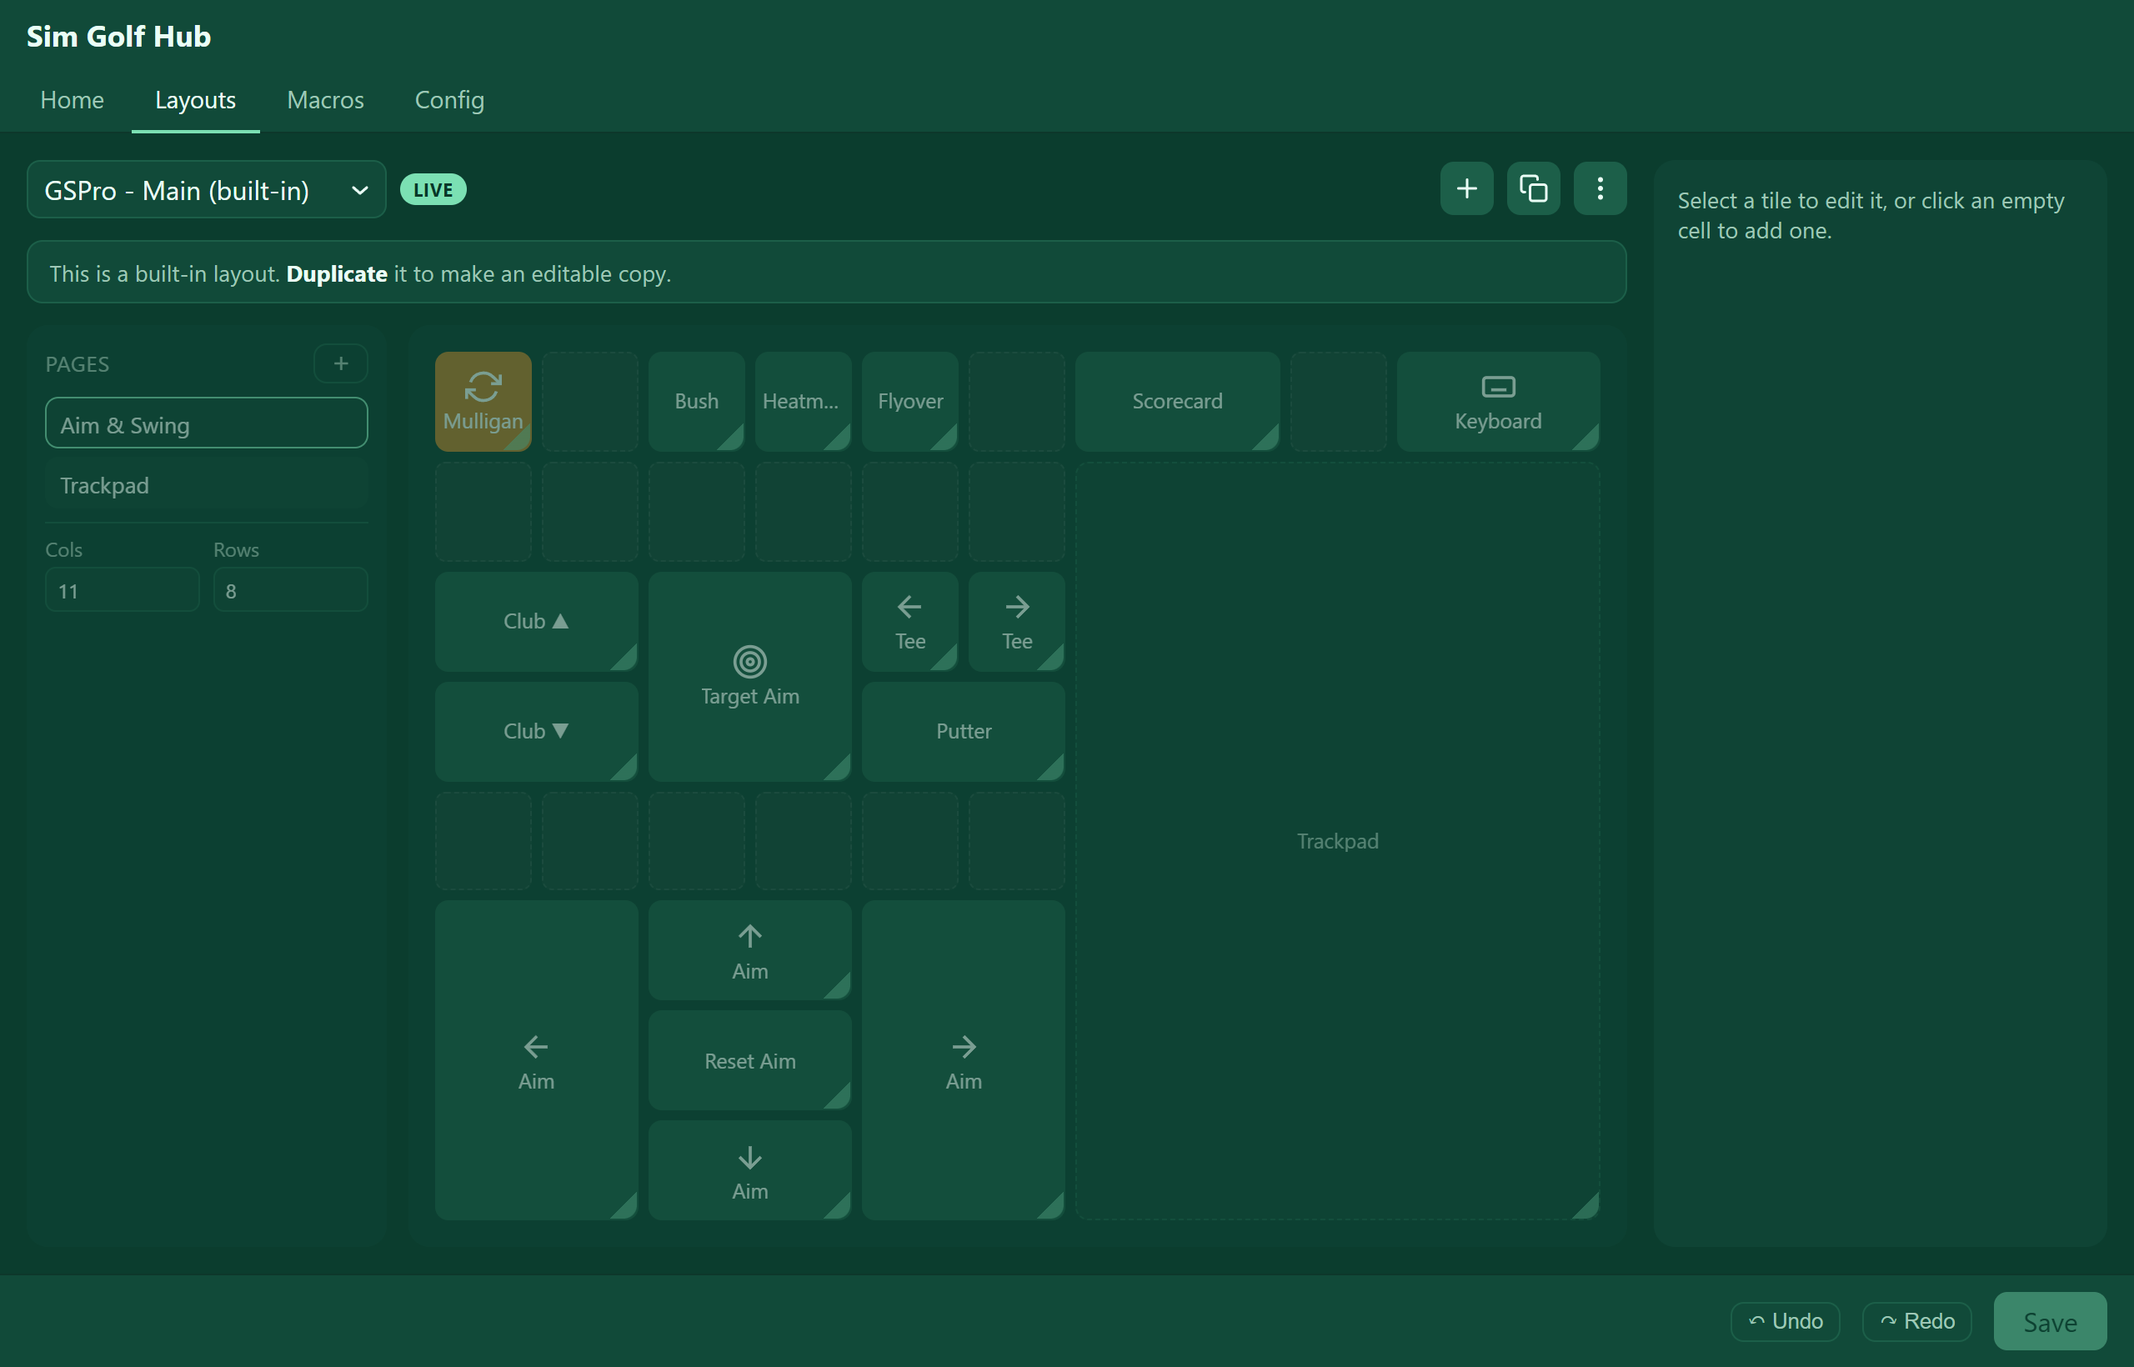
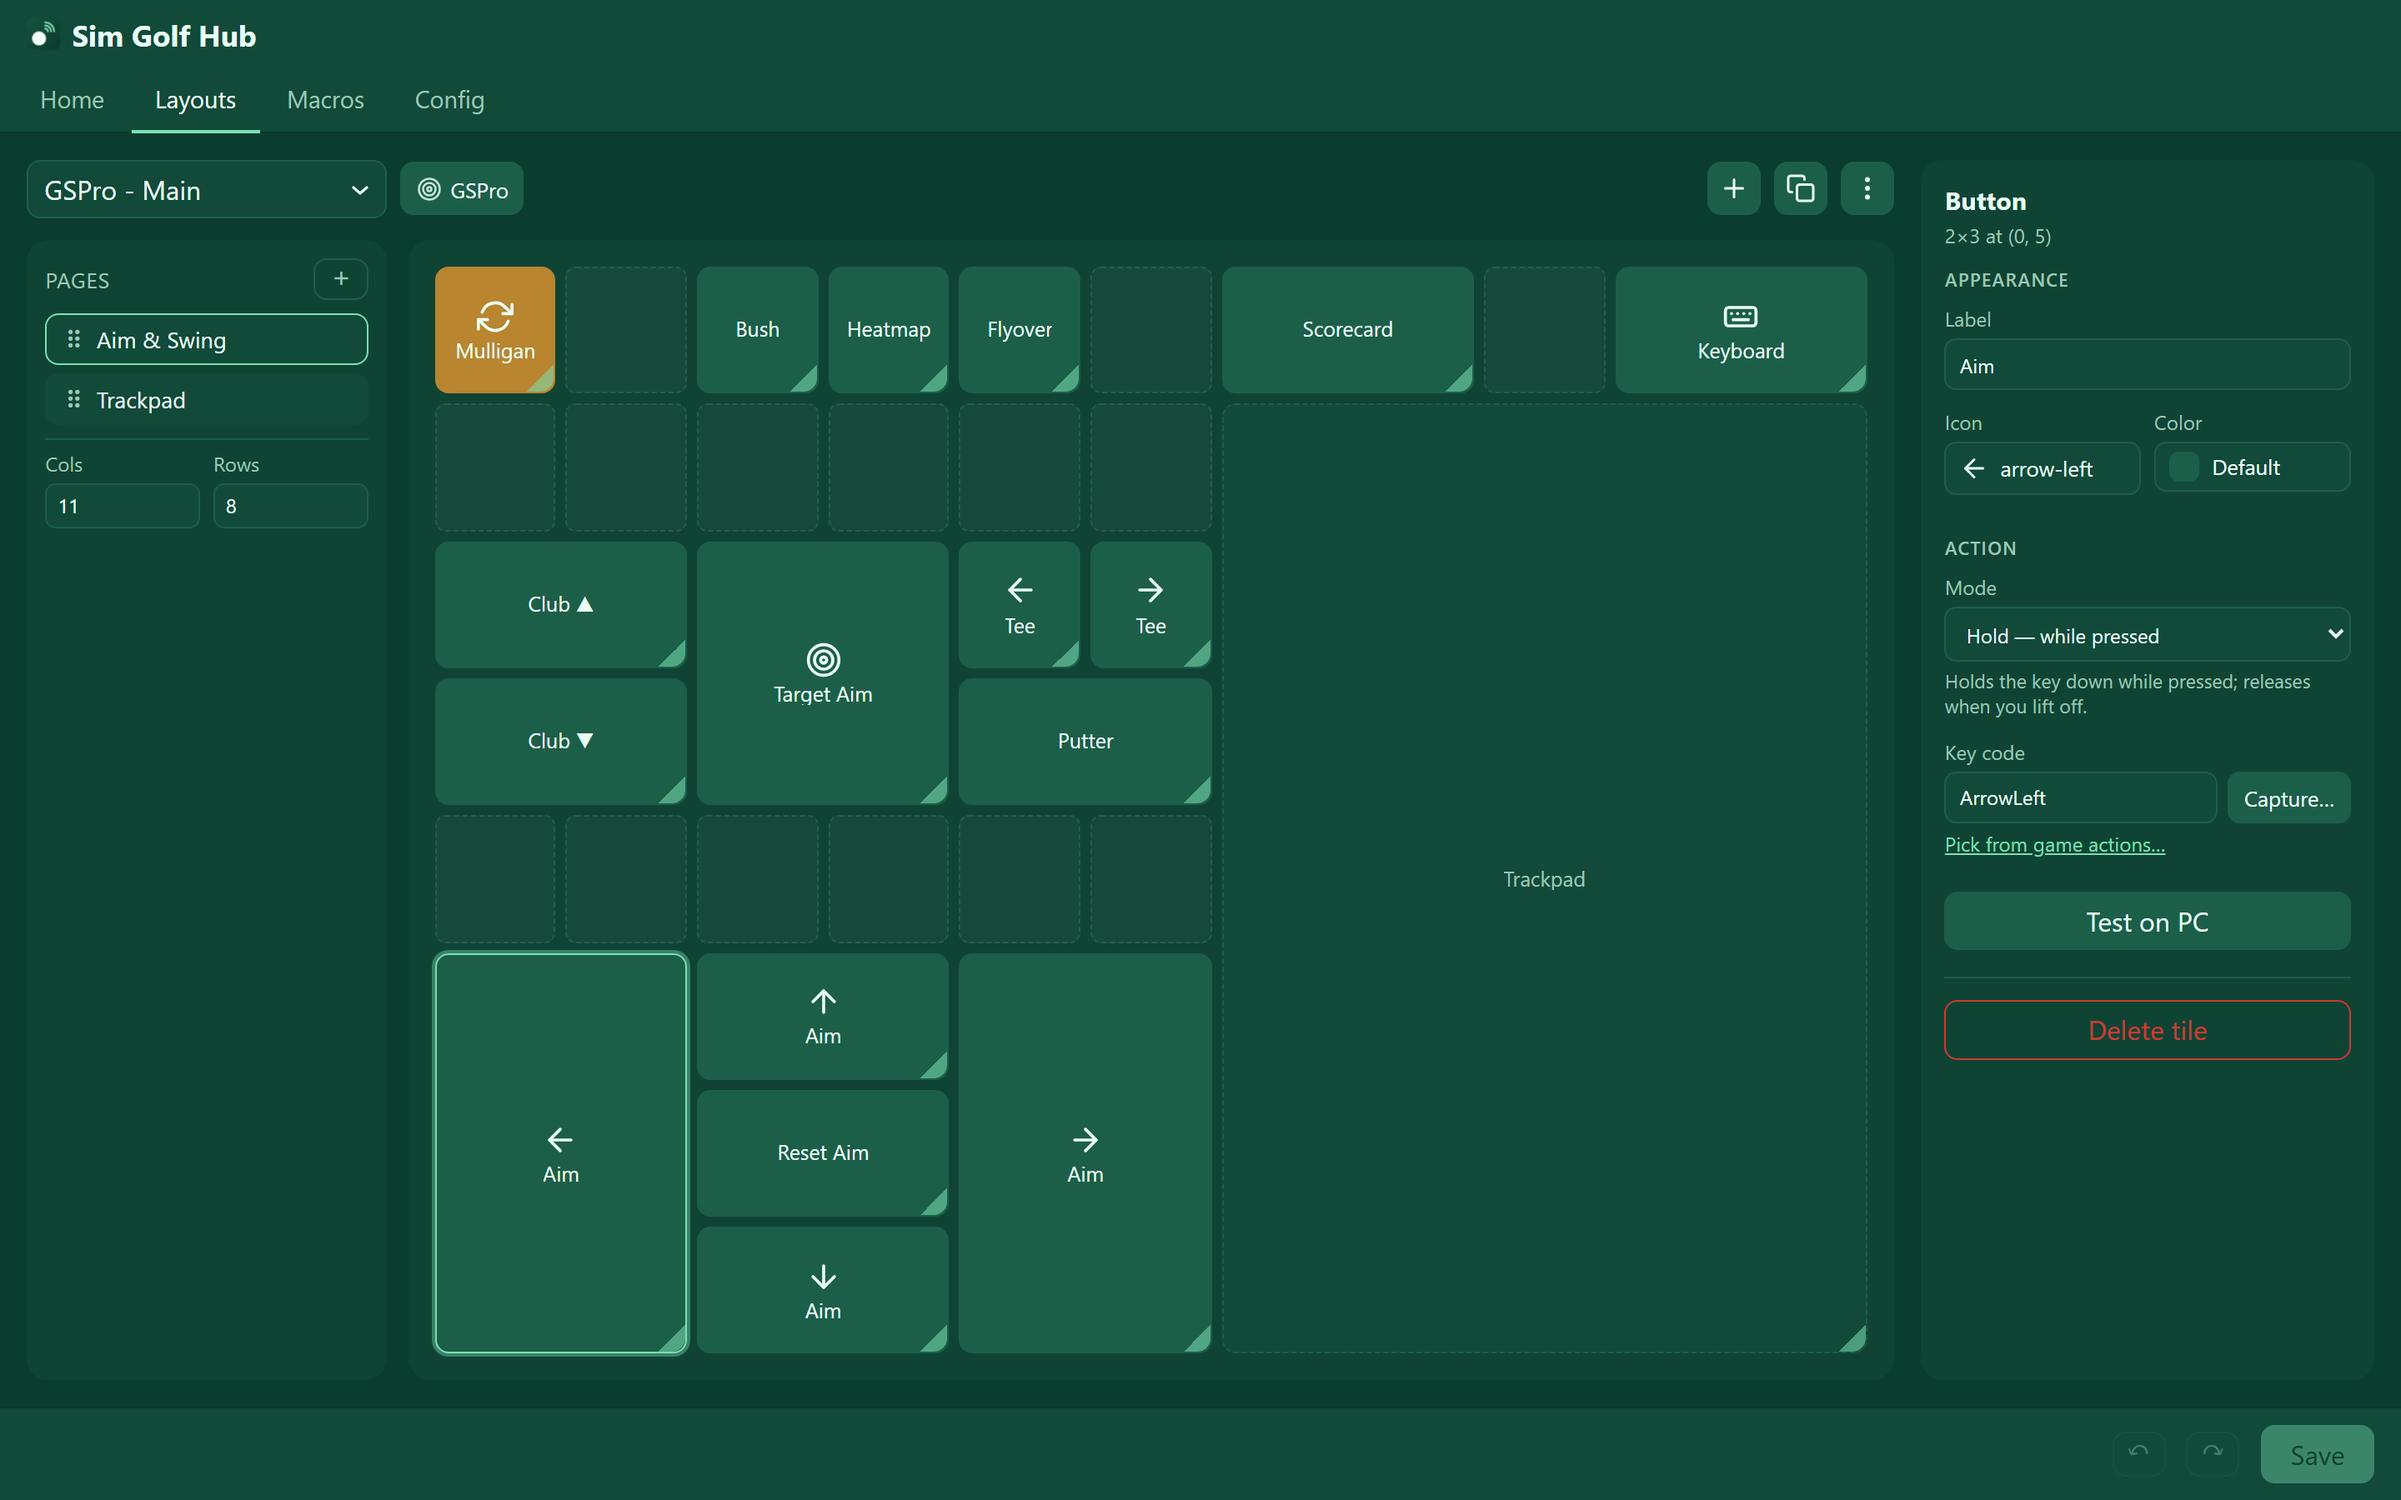
Refresh the download page for v1.1.0
The README hadn't been touched since 3 Jul and the app has moved: themes are
now user-editable, buttons can be bound by picking a named game action, and
layouts export to a file.

Adds screenshots of the theme editor and the game action picker, and replaces
the layout editor shot — the old one predates the toolbar and inspector
redesign. Also stops naming a specific competitor as the stock non-GSPro
example; the point is that it drives anything.

diff --git a/README.md b/README.md
@@ -18,14 +18,18 @@
 
 A small hobby project I built for fun and am giving away. It does what some of the
 paid or account-based sim remotes do, but it's free, needs no account, and stays on
-your own network. It ships set up for **GSPro**, but you can point it at
-**E6 Connect**, **TGC**, or any Windows program.
+your own network. It ships set up for **GSPro**, and you can point it at whatever
+else you play — or at any Windows program at all.
 
 ## What it looks like
 
 | Controller (on an iPad) | Layout editor |
 |:---:|:---:|
 | ![Controller](assets/controller.png) | ![Layout editor](assets/layouts.png) |
+
+| Theme editor | Bind by game action |
+|:---:|:---:|
+| ![Theme editor](assets/themes.png) | ![Game action picker](assets/keymap.png) |
 
 | Pair a device | On-screen keyboard |
 |:---:|:---:|
@@ -36,11 +40,16 @@ your own network. It ships set up for **GSPro**, but you can point it at
 - **Buttons** for any hotkey — tap, hold-to-aim, key combos, or auto-repeat
 - **A trackpad** to move the mouse and click through menus from your seat
 - **An on-screen keyboard** that types straight to the PC
-- **Macros** — chain clicks, keys, and delays into a single tap
-- **Fully customizable layouts** — drag-and-drop grids with multiple pages; save a
-  different layout per app
+- **Macros** — chain clicks, drags, keys, and delays into a single tap
+- **Fully customizable layouts** — drag-and-drop grids with multiple pages, a big
+  icon set and ten button colours; save a different layout per app, and export one
+  to a file to back it up or share it
+- **Bind by game action** — pick "Flyover" or "Aim Left" from a labelled list and
+  the key fills itself in. GSPro's keymap is built in; import your own for other games
+- **Themes you can make** — a built-in editor with live preview and contrast checks,
+  applied to the dashboard and every connected device at once
 - **Auto-focuses your sim** before each press, so there's no alt-tabbing
-- Themes, QR-code pairing, and an optional PIN
+- QR-code pairing and an optional PIN
 
 ## Requirements
 
@@ -66,7 +75,7 @@ That's expected for unsigned apps — click **More info → Run anyway**.
 ## Updating
 
 Download the newest zip, quit the running app from its tray icon, unzip the new version
-over the old folder, and relaunch — your settings and layouts are kept.
+over the old folder, and relaunch — your settings, layouts, and themes are kept.
 
 ## Privacy & network
 
